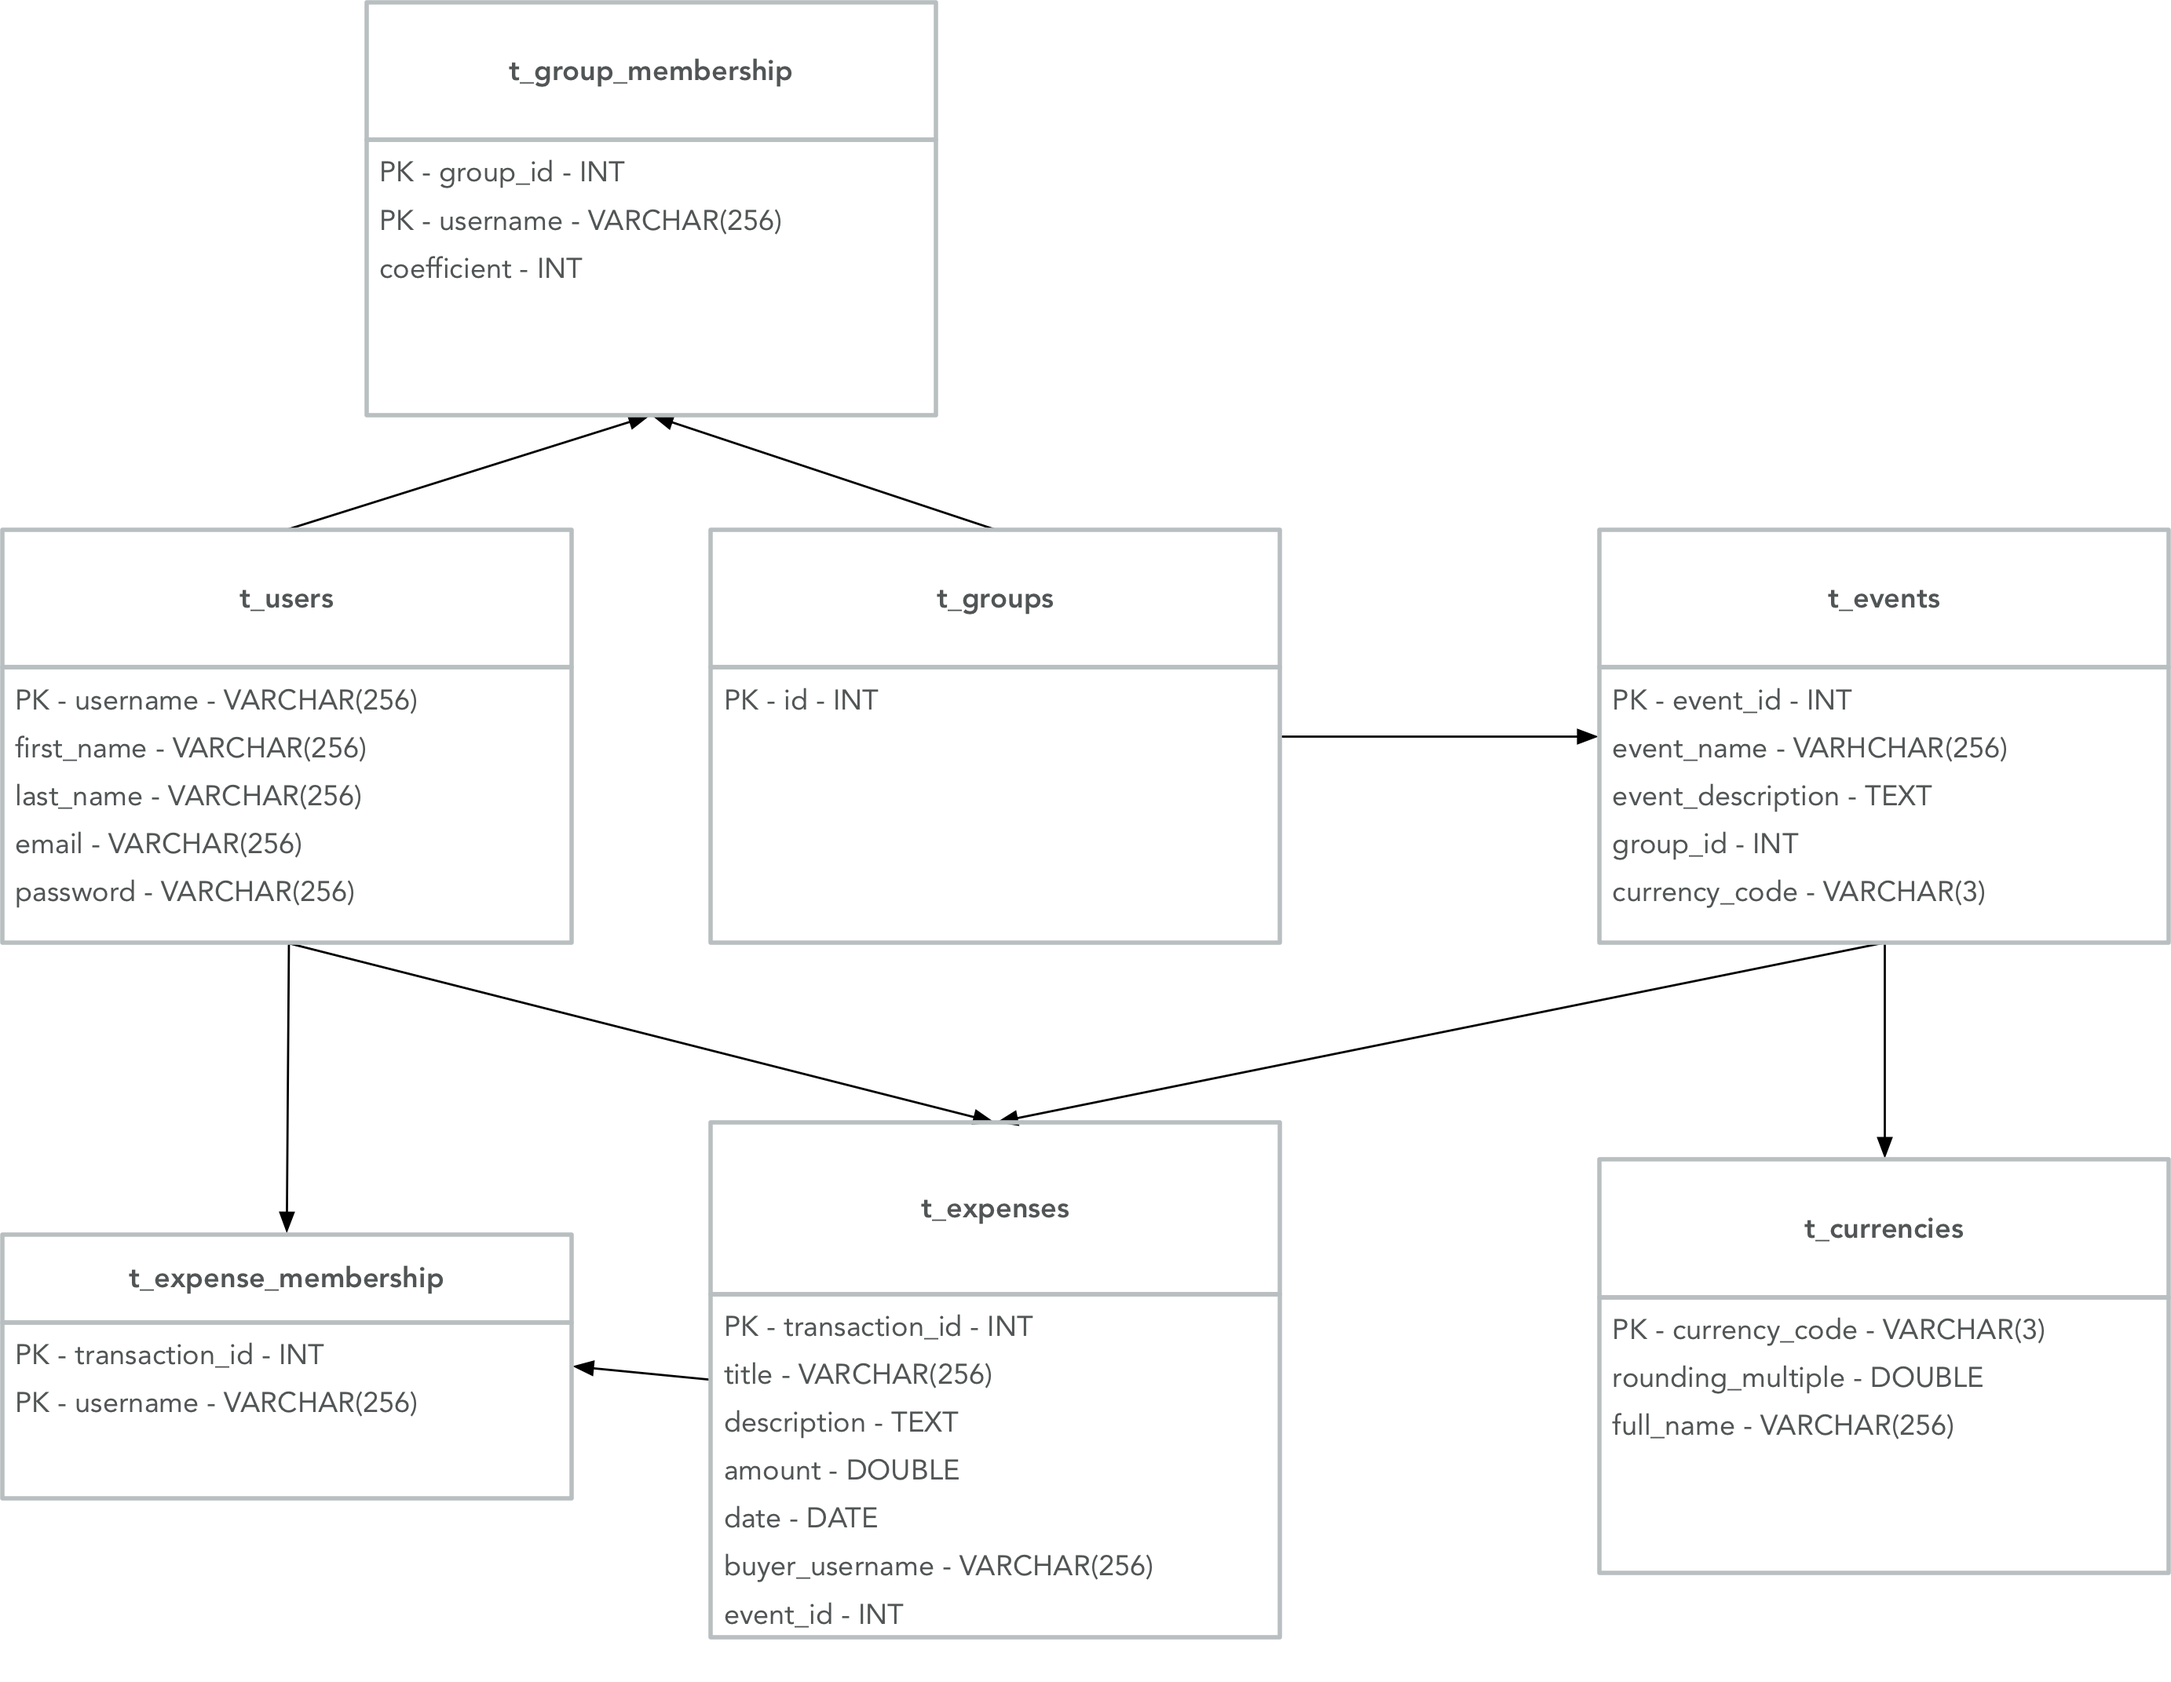
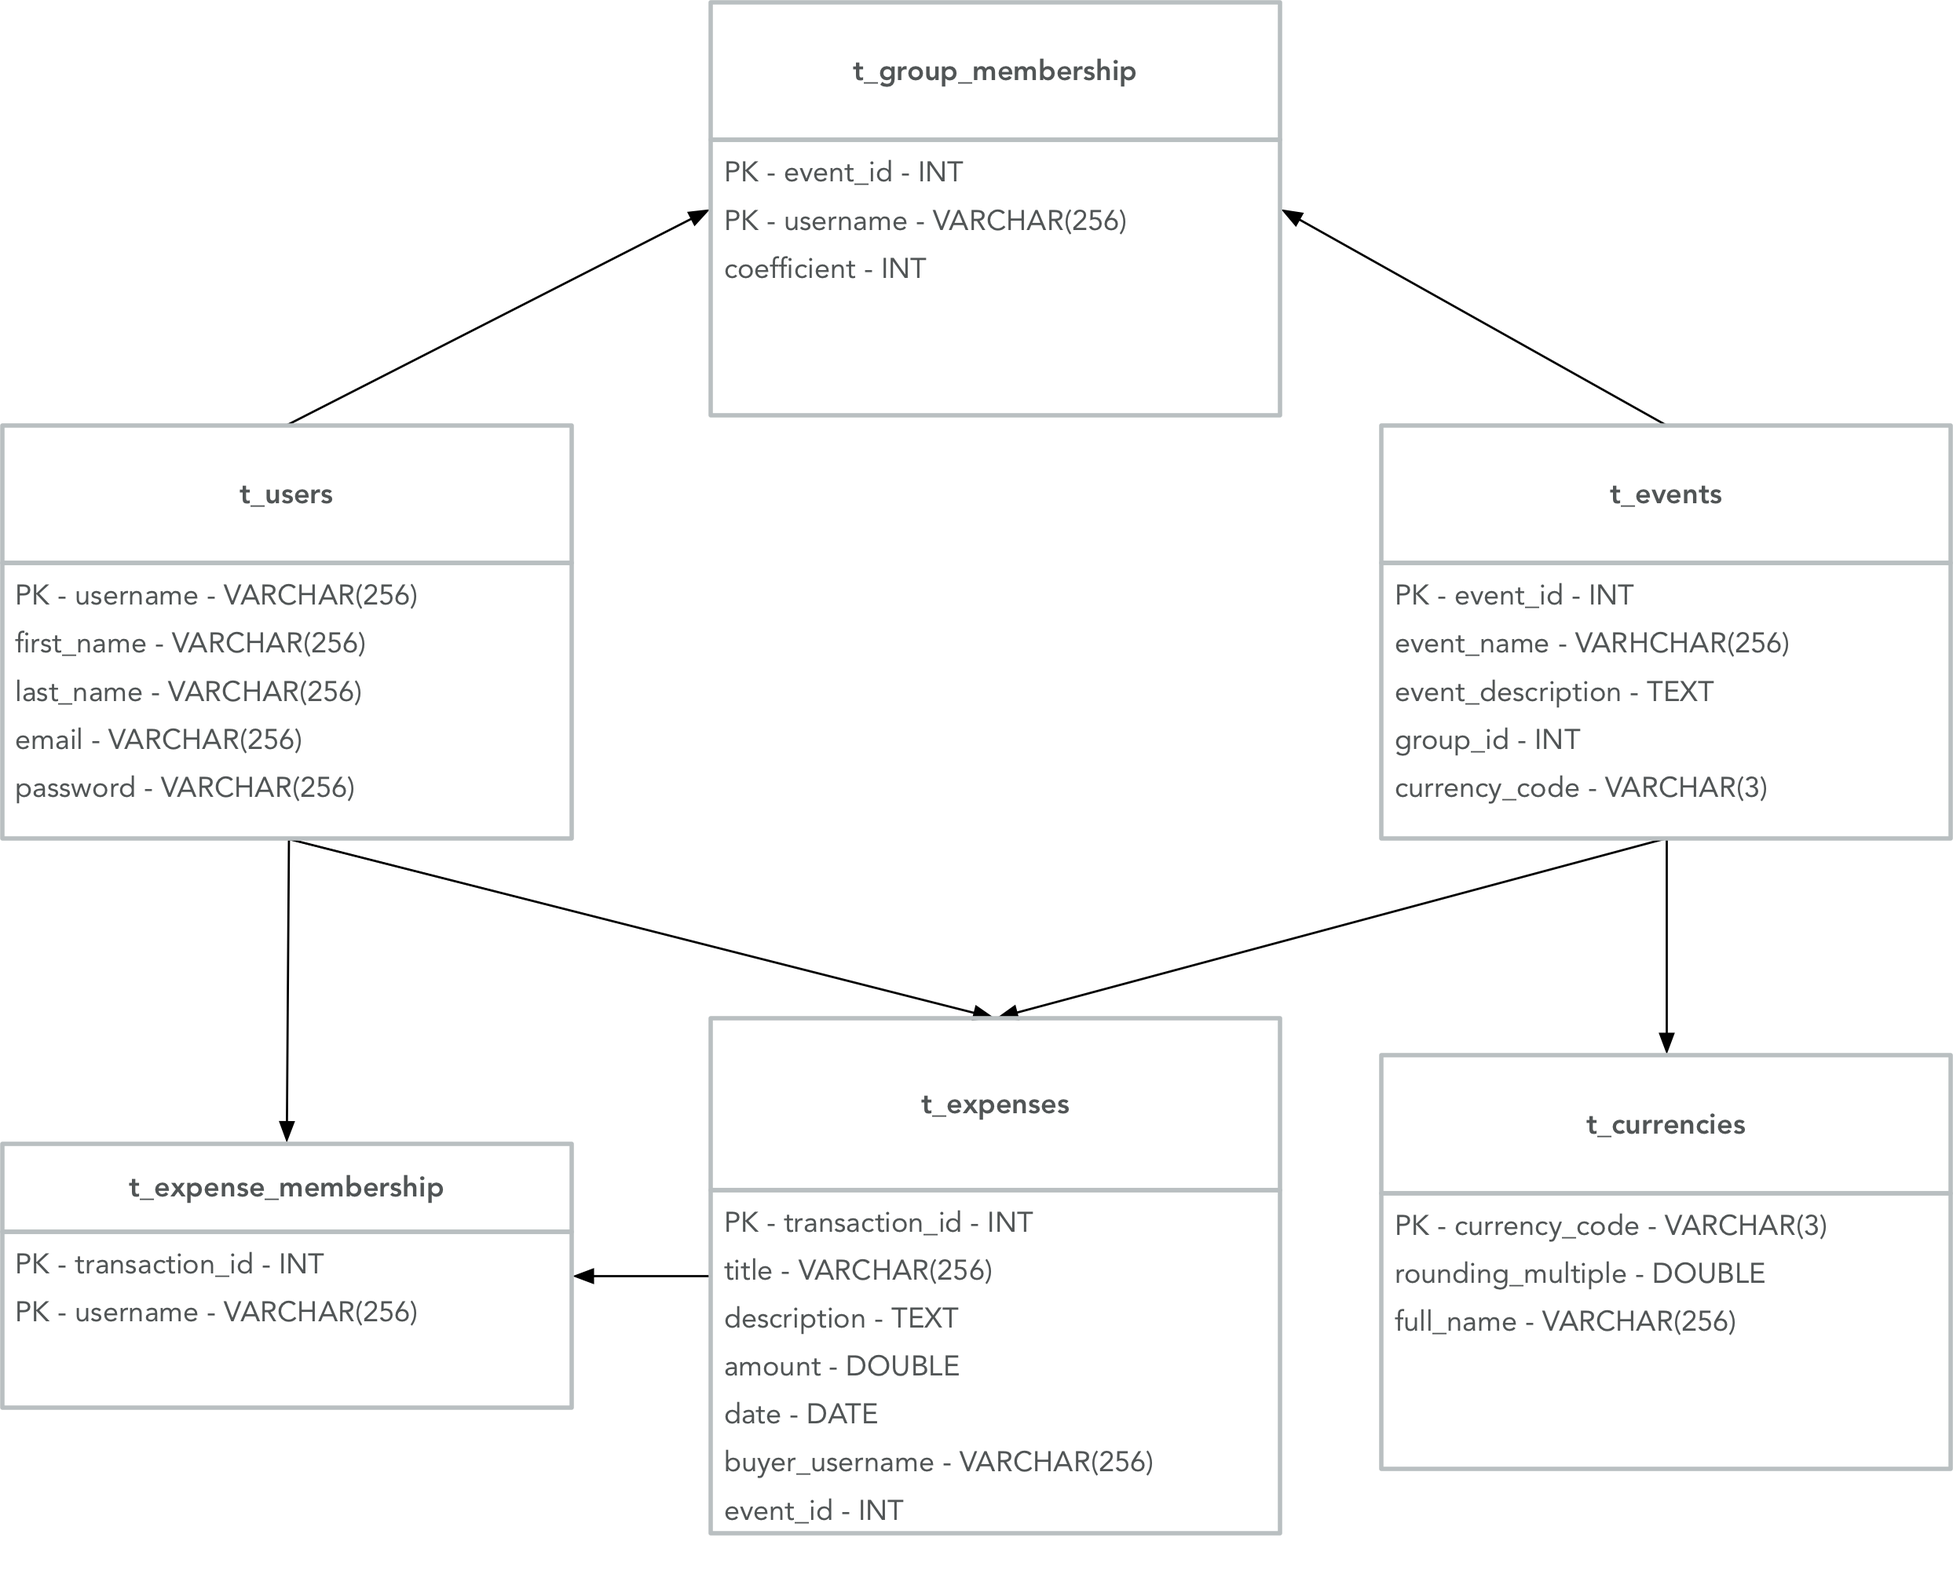
Changed db schema to drop t_groups table and join event_id and username instead

diff --git a/src/createEvent.php b/src/createEvent.php
@@ -23,25 +23,21 @@ if (isset($_POST['newEvent'])) {
     //TODO validation
     //TODO wrap in transaction and roll back if problem
     array_push($users,$_SESSION['username']);
-    $query = $db->prepare('INSERT into t_groups VALUES (DEFAULT)');
-    $query->execute();
-    $idGroup = $db->lastInsertId();
-
-
-    foreach ($users as $user) {
-        $insertionQuery = $db->prepare('INSERT into t_group_membership VALUES (:username,:id)');
-        $insertionQuery->bindParam(':username',$user);
-        $insertionQuery->bindParam(':id',$idGroup);
-        $insertionQuery->execute();
-    }
-
-    $eventInsertionSQL = 'INSERT into t_events VALUES (DEFAULT,:name,:desc,:group,:currency)';
+    $eventInsertionSQL = 'INSERT into t_events VALUES (DEFAULT,:name,:desc,:currency)';
     $eventInsertionQuery = $db->prepare($eventInsertionSQL);
     $eventInsertionQuery->bindParam(':name',$title);
     $eventInsertionQuery->bindParam(':desc',$description);
-    $eventInsertionQuery->bindParam(':group',$idGroup);
     $eventInsertionQuery->bindParam(':currency',$currency);
     $eventInsertionQuery->execute();
+    $idEvent = $db->lastInsertId();
+
+
+    foreach ($users as $user) {
+        $insertionQuery = $db->prepare('INSERT into t_group_membership VALUES (:username,:id, DEFAULT)');
+        $insertionQuery->bindParam(':username',$user);
+        $insertionQuery->bindParam(':id',$idEvent);
+        $insertionQuery->execute();
+    }
 }
 
 header('location:events.php');

diff --git a/src/allEventsBody.php b/src/allEventsBody.php
@@ -8,7 +8,7 @@
     <div class="col" id="content-right">
         <p class="h2">My events</p>
         <?php
-        $eventsQuery = $db->prepare("SELECT * from t_group_membership JOIN t_events on t_events.group_id = t_group_membership.group_id HAVING username=:username");
+        $eventsQuery = $db->prepare("SELECT * from t_group_membership JOIN t_events on t_events.event_id = t_group_membership.event_id HAVING username=:username");
         $eventsQuery->bindParam(":username", $_SESSION['username']);
         $eventsQuery->execute();
         $events = $eventsQuery->fetchAll(PDO::FETCH_ASSOC);
